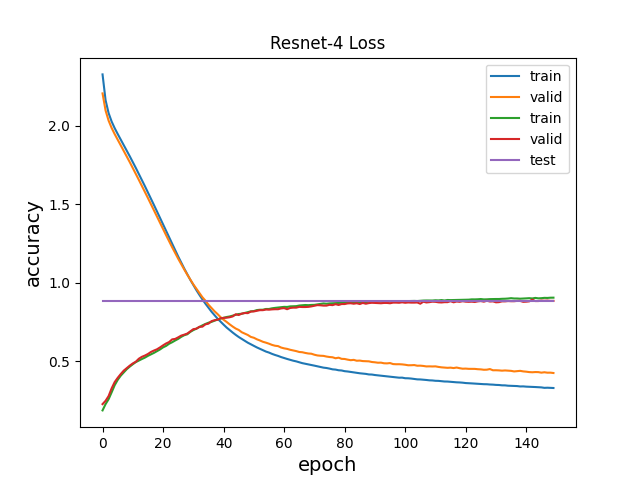
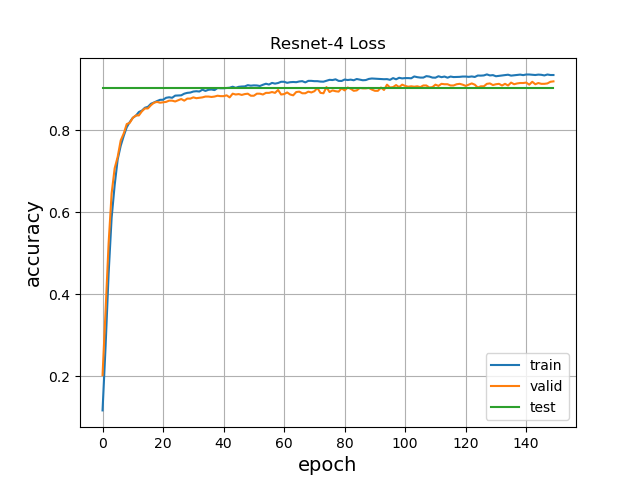
add model changes

diff --git a/proj2.py b/proj2.py
@@ -6,13 +6,16 @@ from tensorflow.keras import layers
 from tensorflow.keras import models
 from tensorflow.keras import optimizers
 from tensorflow.keras import activations
+from tensorflow.keras.regularizers import l1_l2
+from tensorflow.keras.layers.experimental.preprocessing import RandomFlip, RandomRotation
 import numpy as np
 import matplotlib
 import matplotlib.pyplot as plt
 import cv2
 import os
 
-
+# Set a global random seed for TensorFlow
+tf.random.set_seed(42)
 np.set_printoptions(suppress=True)   # suppress scientific notation
 
 # Create Folder if it doesnt exist
@@ -65,7 +68,7 @@ my_x_train, my_x_valid, my_x_test = my_x_train / 255.0, my_x_valid / 255.0, my_x
 
 #####################################
 ## DATA PREPARATION
-batch_size = 100
+batch_size = 50
 # Prepare the training dataset.
 train_dataset = tf.data.Dataset.from_tensor_slices((my_x_train, my_y_train))
 train_dataset = train_dataset.shuffle(buffer_size=1024).batch(batch_size)
@@ -83,24 +86,20 @@ def myModel():
 
     # FIRST SECTION
     inputs = keras.Input(shape=(28, 28, 1), name="Input_1")
-    x = layers.Conv2D(5, (3, 3), padding="same", activation='relu', name="conv_11")(inputs)
-    x = layers.Conv2D(5, (3, 3), padding="same", activation='relu', name="conv_12")(x)
+    data_augmentation = tf.keras.Sequential([
+        RandomRotation(0.1)  # Randomly rotate images by up to 20 degrees
+    ])
+    x = data_augmentation(inputs)
+    x = layers.Conv2D(5, (3, 3), padding="same", activation='relu', name="conv_11", kernel_regularizer=l1_l2(l1=0.01, l2=0.01))(inputs)
+    x = layers.Conv2D(5, (3, 3), padding="same", activation='relu', name="conv_12", kernel_regularizer=l1_l2(l1=0.01, l2=0.01))(x)
     add_1 = layers.Add()([x, inputs])
 
-    # # Second Section
+    # # # Second Section
     maxPool1 = layers.MaxPooling2D(pool_size=(2,2), strides=2)(add_1)
-    x = layers.Conv2D(5, (3,3), padding="same", activation='relu')(maxPool1)
-    x = layers.Conv2D(5, (3,3), padding="same", activation='relu')(x)
+    x = layers.Conv2D(5, (3,3), padding="same", activation='relu', kernel_regularizer=l1_l2(l1=0.02, l2=0.02))(maxPool1)
     add_2 = layers.Add()([x, maxPool1])
-    
 
-    # # Third
-    max_pool_31 = layers.MaxPooling2D(pool_size=(2,2), strides=2)(add_2)
-    x = layers.Conv2D(5, (3,3), padding="same", activation='relu')(max_pool_31)
-    x = layers.Conv2D(5, (3,3), padding="same", activation='relu')(x)
-    add_3 = layers.Add()([x, max_pool_31])
-
-    flat = layers.Flatten()(add_3)
+    flat = layers.Flatten()(add_2)
     dense = layers.Dense(10, activation="softmax")(flat)
     model = keras.Model(inputs=inputs, outputs=dense, name="My_Model")
     return model
@@ -171,11 +170,13 @@ def training_loop (train_dataset, val_dataset, model, num_epochs = 150):
         # Update val metrics
         val_acc_metric.update_state(y_batch_val, val_logits)
         val_batch_loss.append(loss_fn(y_batch_val, val_logits))
-
-    val_loss_results.append(sum(val_batch_loss) / len(val_batch_loss))
+    avg_val_loss = sum(val_batch_loss) / len(val_batch_loss)
+    val_loss_results.append(avg_val_loss)
     val_acc = val_acc_metric.result()
     val_acc_metric.reset_states()
     print("Validation acc: %.4f" % (float(val_acc),))
+    print("Train loss: %.4f" % (float(sum(epoch_loss) / len(epoch_loss)),))
+    print("Validation loss: %.4f" % (float(avg_val_loss),))
 
     val_acc_results.append(float(val_acc))
   
